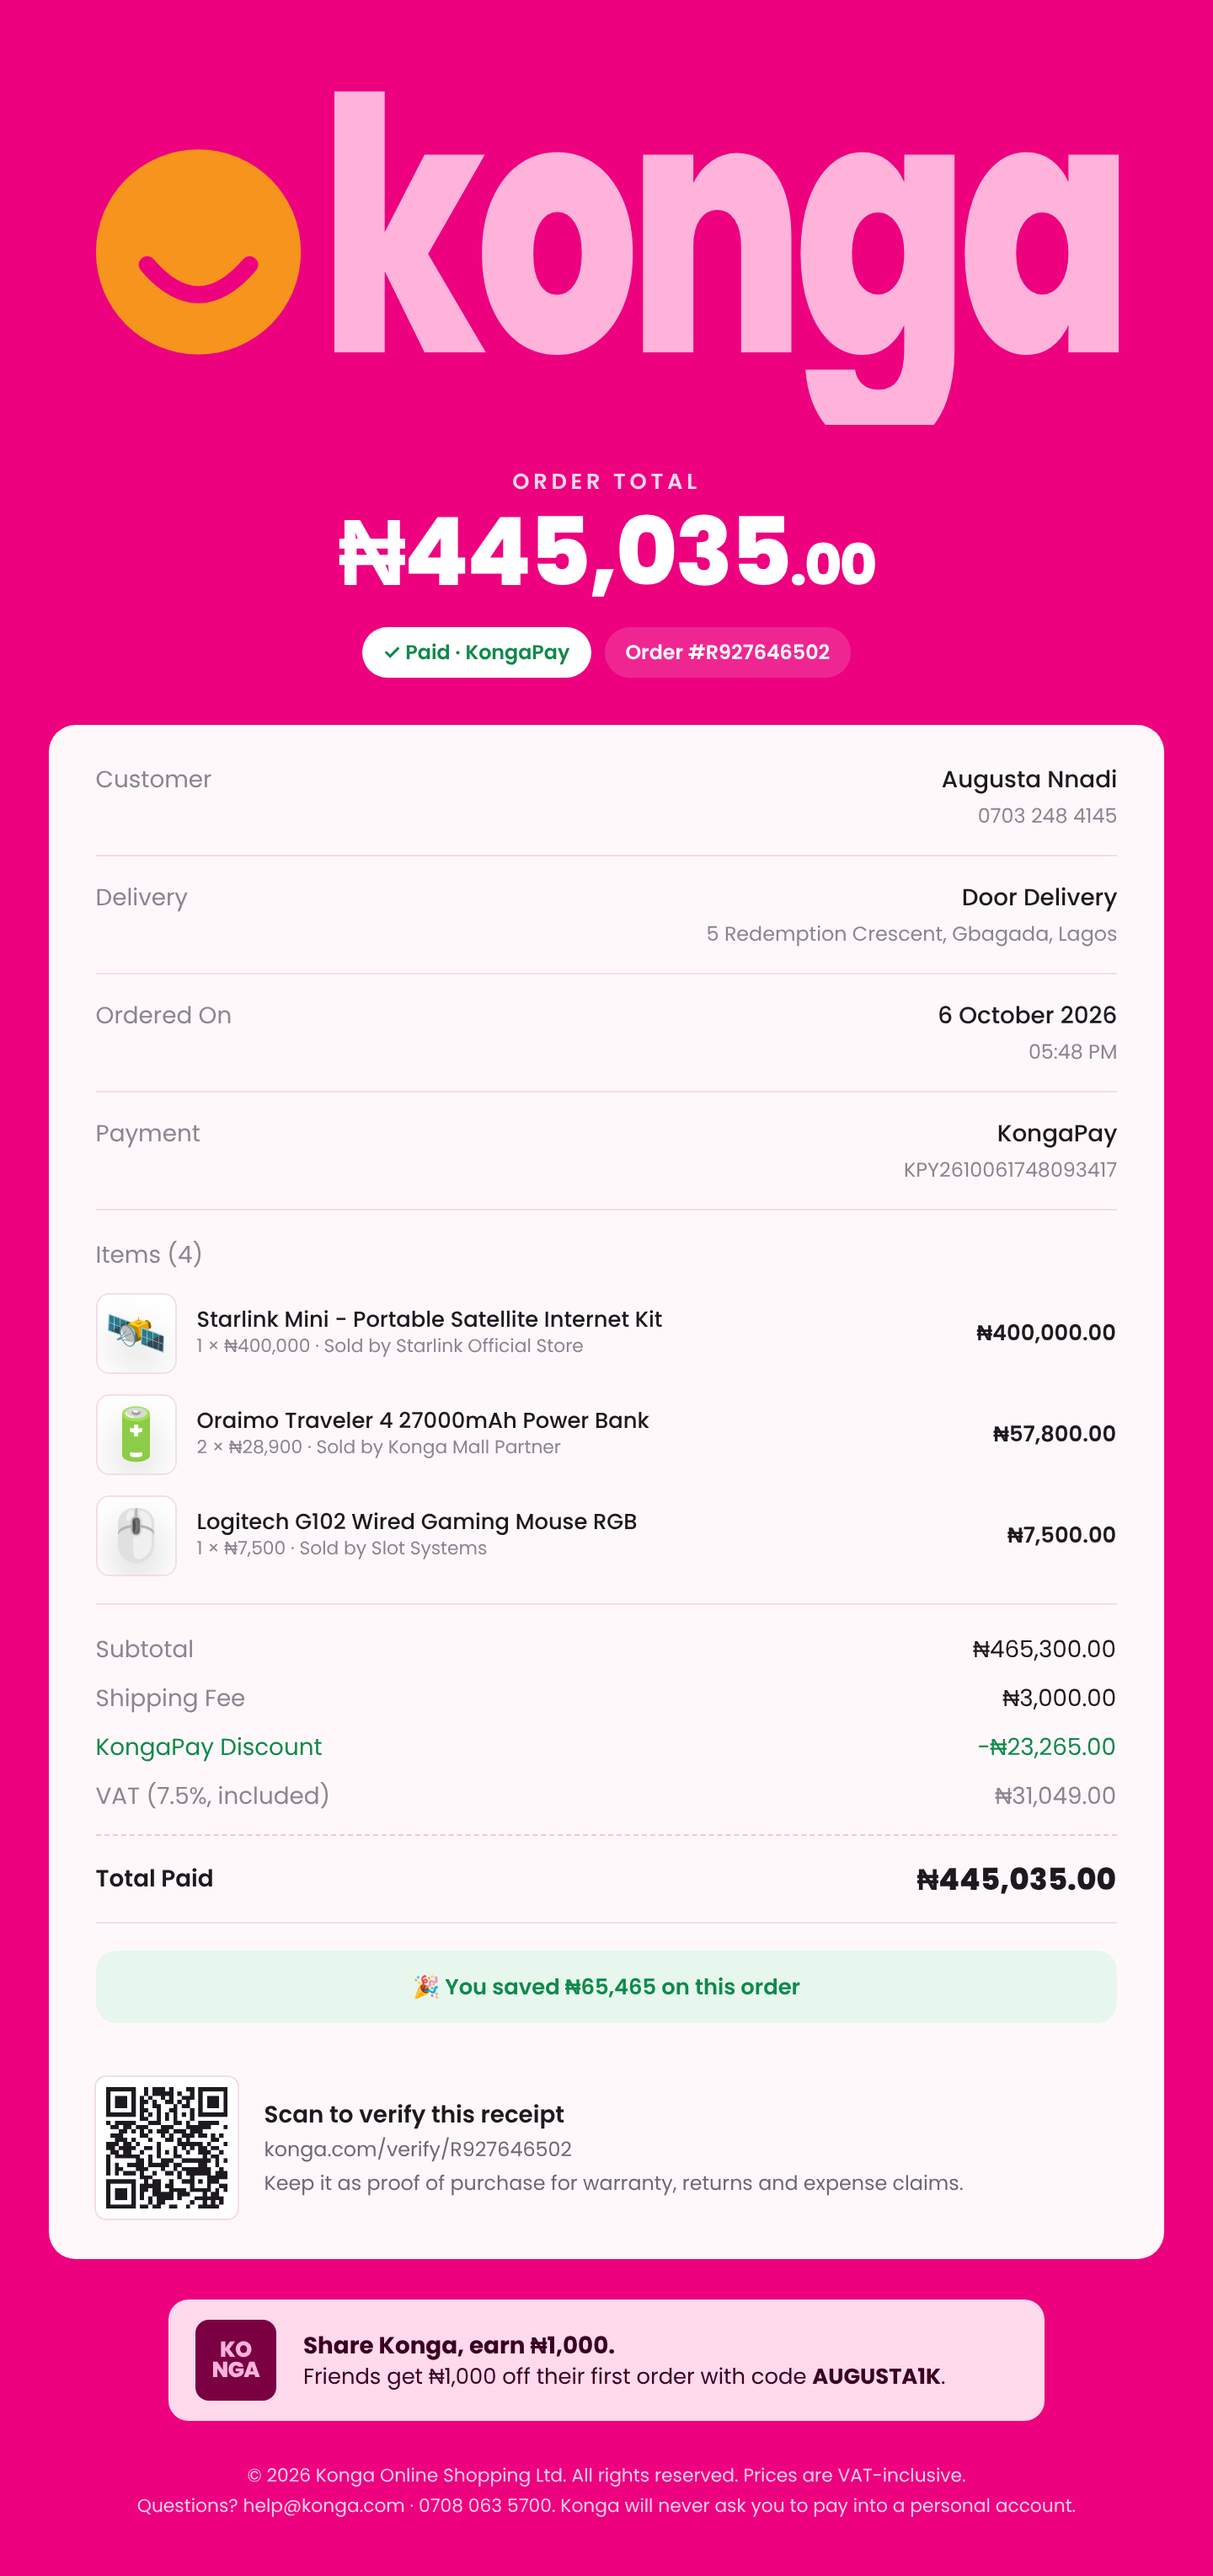
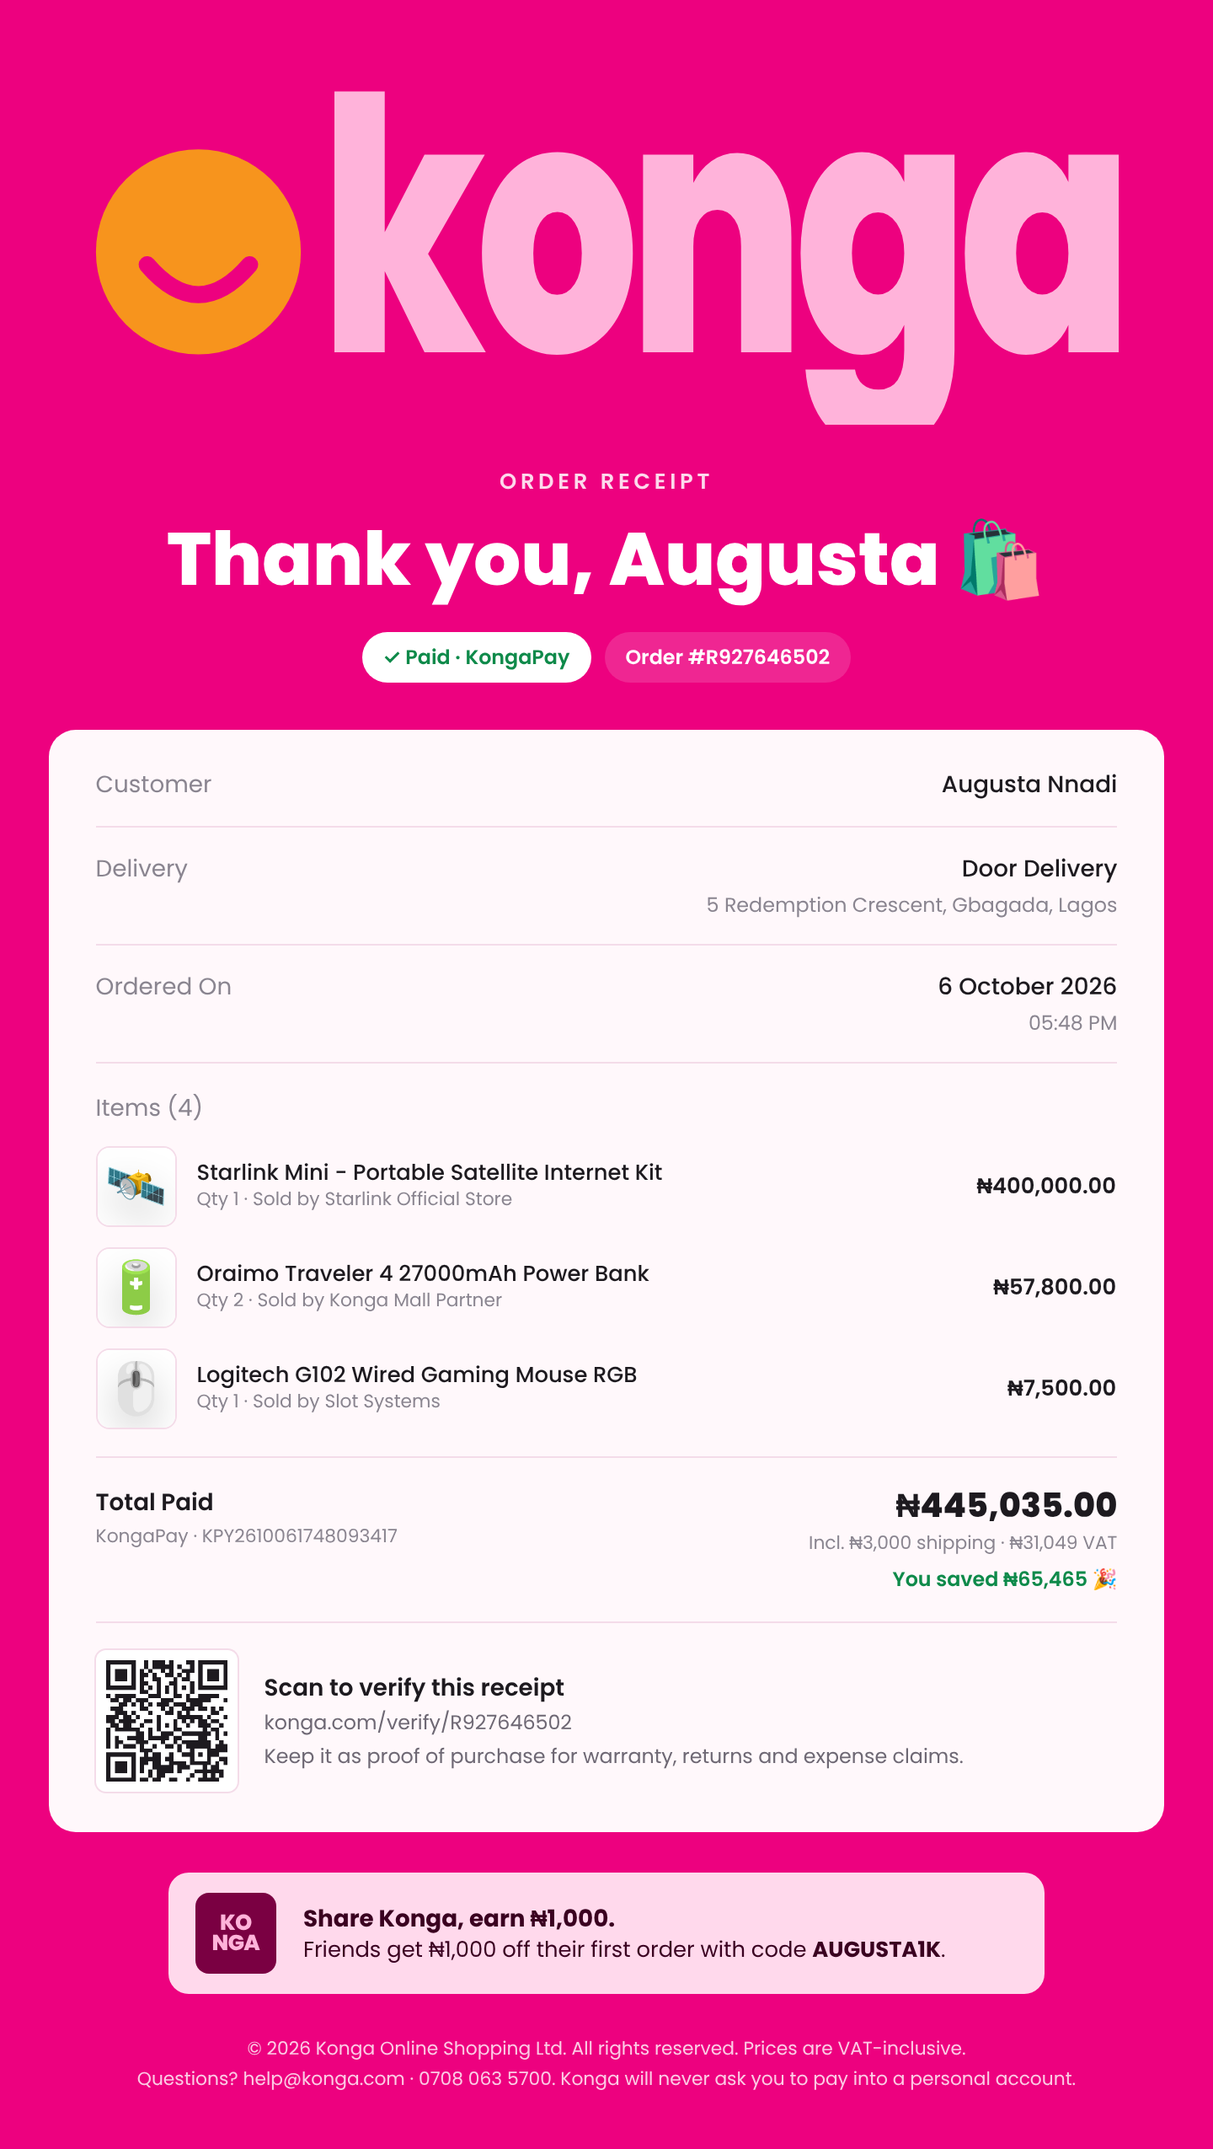
Make the clean receipt layout the default order receipt
Personal 'Thank you, {name}' headline instead of a big total, phone
number and full price breakdown removed, and a single Total Paid line
carrying payment reference, shipping/VAT note and savings.

Claude-Session: https://claude.ai/code/session_015pjrbLUyeo5AnSWYNfEkrp

diff --git a/konga-clone/components/Receipt.tsx b/konga-clone/components/Receipt.tsx
@@ -84,15 +84,10 @@ const Receipt = forwardRef<HTMLDivElement, Props>(function Receipt({ order, gift
 
       {/* Hero */}
       <div className="px-[6%] pb-7 pt-6 text-center">
-        <p className="text-[13px] font-semibold uppercase tracking-[0.18em] text-white/85">{gift ? 'Gift Receipt' : 'Order Total'}</p>
-        {gift ? (
-          <p className="mt-2 text-[34px] font-extrabold leading-tight sm:text-[44px]">A gift for you 🎁</p>
-        ) : (
-          <p className="mt-1 text-[44px] font-extrabold leading-none tracking-tight sm:text-[56px]">
-            {money(t.total).whole}
-            <span className="text-[0.62em]">.{money(t.total).kobo}</span>
-          </p>
-        )}
+        <p className="text-[13px] font-semibold uppercase tracking-[0.18em] text-white/85">{gift ? 'Gift Receipt' : 'Order Receipt'}</p>
+        <p className="mt-2 text-[32px] font-extrabold leading-tight sm:text-[44px]">
+          {gift ? 'A gift for you 🎁' : `Thank you, ${firstName} 🛍`}
+        </p>
         <div className="mt-4 flex flex-wrap items-center justify-center gap-2 text-[12px] font-semibold">
           <span className="rounded-full bg-white px-3 py-1.5 text-[#0E8A4A]">✓ {gift ? `From ${firstName}` : `Paid · ${order.paymentMethod}`}</span>
           <span className="rounded-full bg-white/15 px-3 py-1.5">Order #{order.id}</span>
@@ -101,20 +96,17 @@ const Receipt = forwardRef<HTMLDivElement, Props>(function Receipt({ order, gift
 
       {/* Details card */}
       <div className="mx-[4%] rounded-2xl bg-[#FFF8FB] px-5 py-2 text-[#1D1A1F] sm:px-7">
-        <Row label={gift ? 'Gifted By' : 'Customer'} value={order.customer.name} sub={gift ? undefined : order.customer.phone} />
+        <Row label={gift ? 'Gifted By' : 'Customer'} value={order.customer.name} />
         <Row label="Delivery" value={order.deliveryMethod} sub={order.address} />
         <Row
           label="Ordered On"
           value={placed.toLocaleDateString('en-GB', { day: 'numeric', month: 'long', year: 'numeric', timeZone: 'Africa/Lagos' })}
           sub={placed.toLocaleTimeString('en-US', { hour: '2-digit', minute: '2-digit', timeZone: 'Africa/Lagos' })}
         />
-        {!gift && <Row label="Payment" value={order.paymentMethod} sub={order.paymentRef} />}
 
         {/* Items */}
         <div className="border-b border-[#F4DCE9] py-4">
-          <p className="mb-3 text-[14px] text-[#8A8590]">
-            Items ({t.items})
-          </p>
+          <p className="mb-3 text-[14px] text-[#8A8590]">Items ({t.items})</p>
           <ul className="space-y-3">
             {order.lines.map((l) => {
               const p = lineProduct(l);
@@ -127,7 +119,7 @@ const Receipt = forwardRef<HTMLDivElement, Props>(function Receipt({ order, gift
                   <span className="min-w-0 flex-1">
                     <span className="line-clamp-2 text-[13px] font-medium leading-snug">{p.name}</span>
                     <span className="block text-[11px] text-[#8A8590]">
-                      {gift ? `Qty ${l.qty}` : `${l.qty} × ${money(l.price).whole}`} · Sold by {p.seller}
+                      Qty {l.qty} · Sold by {p.seller}
                     </span>
                   </span>
                   {!gift && <Amount value={l.price * l.qty} className="shrink-0 text-[13px] font-semibold" />}
@@ -138,37 +130,22 @@ const Receipt = forwardRef<HTMLDivElement, Props>(function Receipt({ order, gift
         </div>
 
         {!gift && (
-          <div className="border-b border-[#F4DCE9] py-3 text-[14px]">
-            {[
-              ['Subtotal', t.subtotal, ''],
-              ['Shipping Fee', order.shipping, ''],
-              ...(order.discount ? [[`${order.paymentMethod} Discount`, -order.discount, 'text-[#0E8A4A]']] : []),
-              ['VAT (7.5%, included)', t.vat, 'text-[#8A8590]'],
-            ].map(([label, value, cls]) => (
-              <div key={label as string} className={`flex justify-between py-1 ${cls}`}>
-                <span className={cls ? '' : 'text-[#8A8590]'}>{label}</span>
-                <span>
-                  {label === 'Shipping Fee' && value === 0 ? (
-                    'Free'
-                  ) : (
-                    <>
-                      {(value as number) < 0 ? '−' : ''}
-                      <Amount value={Math.abs(value as number)} />
-                    </>
-                  )}
-                </span>
-              </div>
-            ))}
-            <div className="mt-2 flex items-center justify-between border-t border-dashed border-[#F0C6DC] pt-3">
-              <span className="font-semibold">Total Paid</span>
-              <Amount value={t.total} className="text-[18px] font-extrabold" />
-            </div>
-          </div>
-        )}
-
-        {!gift && t.savings > 0 && (
-          <div className="my-4 rounded-xl bg-[#E7F7EE] px-4 py-3 text-center text-[13px] font-semibold text-[#0E8A4A]">
-            🎉 You saved {money(t.savings).whole} on this order
+          <div className="flex items-start justify-between gap-6 border-b border-[#F4DCE9] py-4">
+            <span>
+              <span className="block text-[14px] font-semibold">Total Paid</span>
+              <span className="mt-0.5 block text-[11px] text-[#8A8590]">
+                {order.paymentMethod} · {order.paymentRef}
+              </span>
+            </span>
+            <span className="text-right">
+              <Amount value={t.total} className="block text-[20px] font-extrabold leading-tight" />
+              <span className="mt-0.5 block text-[11px] text-[#8A8590]">
+                Incl. {order.shipping ? `${money(order.shipping).whole} shipping` : 'free shipping'} · {money(t.vat).whole} VAT
+              </span>
+              {t.savings > 0 && (
+                <span className="mt-1 block text-[12px] font-semibold text-[#0E8A4A]">You saved {money(t.savings).whole} 🎉</span>
+              )}
+            </span>
           </div>
         )}
 

diff --git a/konga-clone/docs/konga-receipt-proposal.md b/konga-clone/docs/konga-receipt-proposal.md
@@ -33,12 +33,11 @@ A **Konga Receipt**, available from:
 | Element | Why it's there |
 | --- | --- |
 | Oversized **konga** wordmark in a lighter tint of magenta on `#ED017F` | Recognisable from a WhatsApp thumbnail. Brand first, like Kuda. |
-| **Order total** as the hero, kobo set smaller | The number people want to see, and the format they're used to from bank receipts |
+| A personal headline, **"Thank you, {name} 🛍"** | Warm and worth sharing, not just a bill. It reads the same way for a gift ("A gift for you 🎁"). |
 | **Paid · KongaPay** status pill and order number | Instant confidence that the order went through |
-| Customer, delivery, date and time, payment reference | Everything support, a warranty desk or a finance team asks for |
+| Customer, delivery, date and time | The essentials, with no clutter (the phone number is left off so the image is safe to share) |
 | Line items with thumbnail, quantity, unit price and **Sold by** | Makes marketplace sellers visible and accountable |
-| Subtotal, shipping, discounts, **VAT (7.5% included)** | Makes the receipt valid for expense and tax purposes |
-| **"You saved ₦X on this order"** | Reinforces value at the moment of purchase |
+| One **Total Paid** line with payment reference, "incl. shipping · VAT" and **"You saved ₦X 🎉"** | Everything a finance team or warranty desk needs in a single line, and it reinforces value at the moment of purchase |
 | **QR code → konga.com/verify/{order}** | Anyone can check it's a genuine Konga order. This is the anti-fraud layer the email can only warn about. |
 | **Referral card**: "Share Konga, earn ₦1,000" with a personal code | Turns every shared receipt into an acquisition channel |
 | Footer: support contacts and "Konga will never ask you to pay into a personal account" | Keeps the existing safety message, in a calmer tone |
